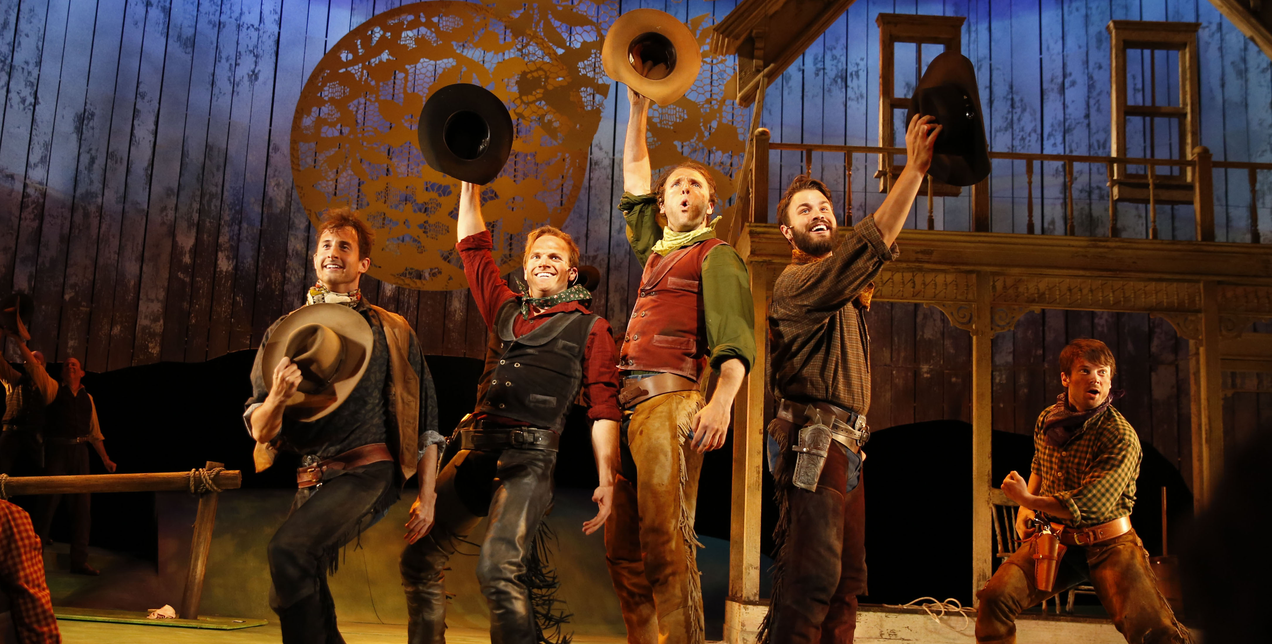
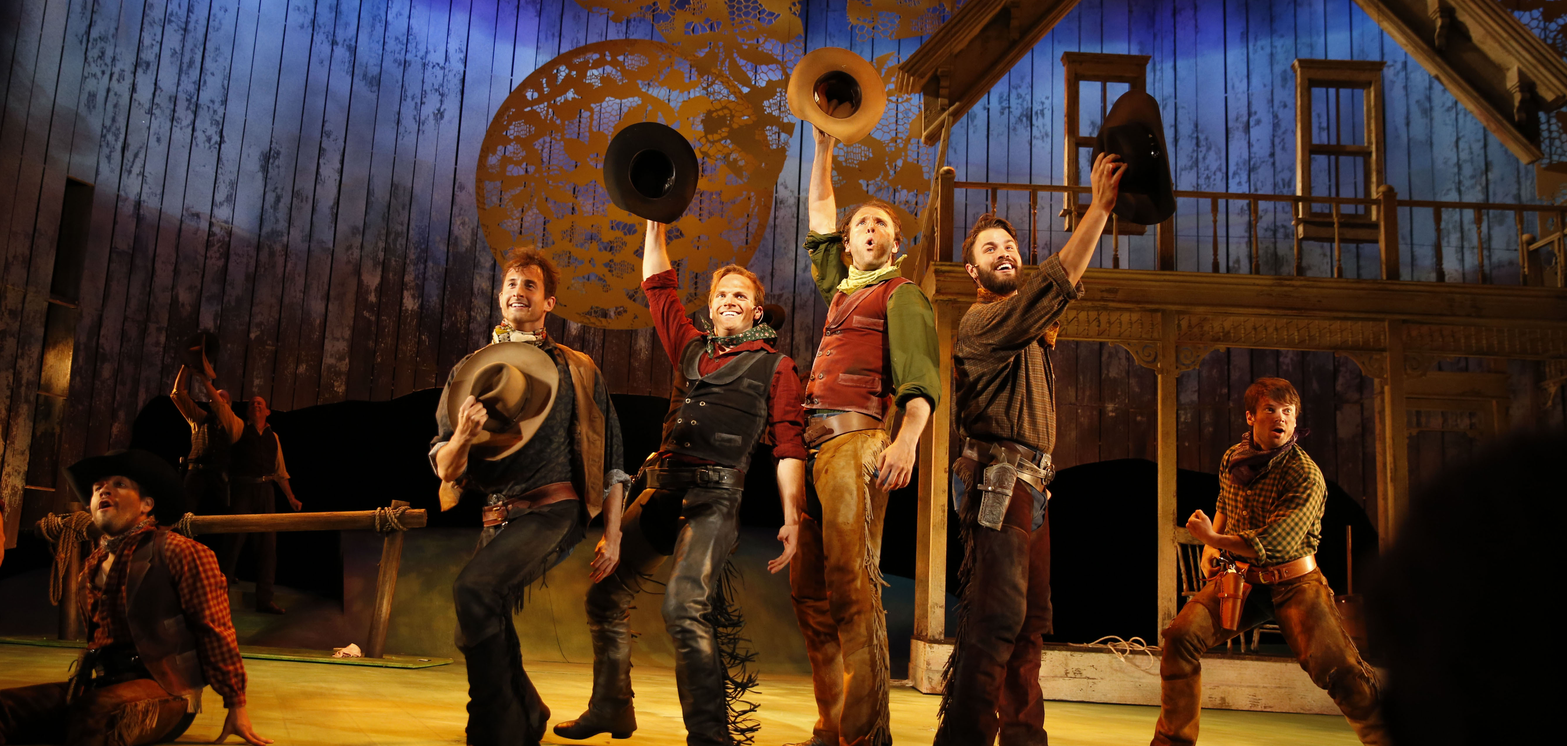
stretch

diff --git a/actor/actor.css b/actor/actor.css
@@ -116,7 +116,7 @@ a {
 
 .right-top-left {
   height: 100%;
-  width: 40%;
+  width: 38%;
 }
 
 .right-top-left img {
@@ -128,7 +128,7 @@ a {
 
 .right-top-right {
   height: 100%;
-  width: 60%;
+  width: 62%;
   display: flex;
   flex-direction: column;
   justify-content: space-between;
